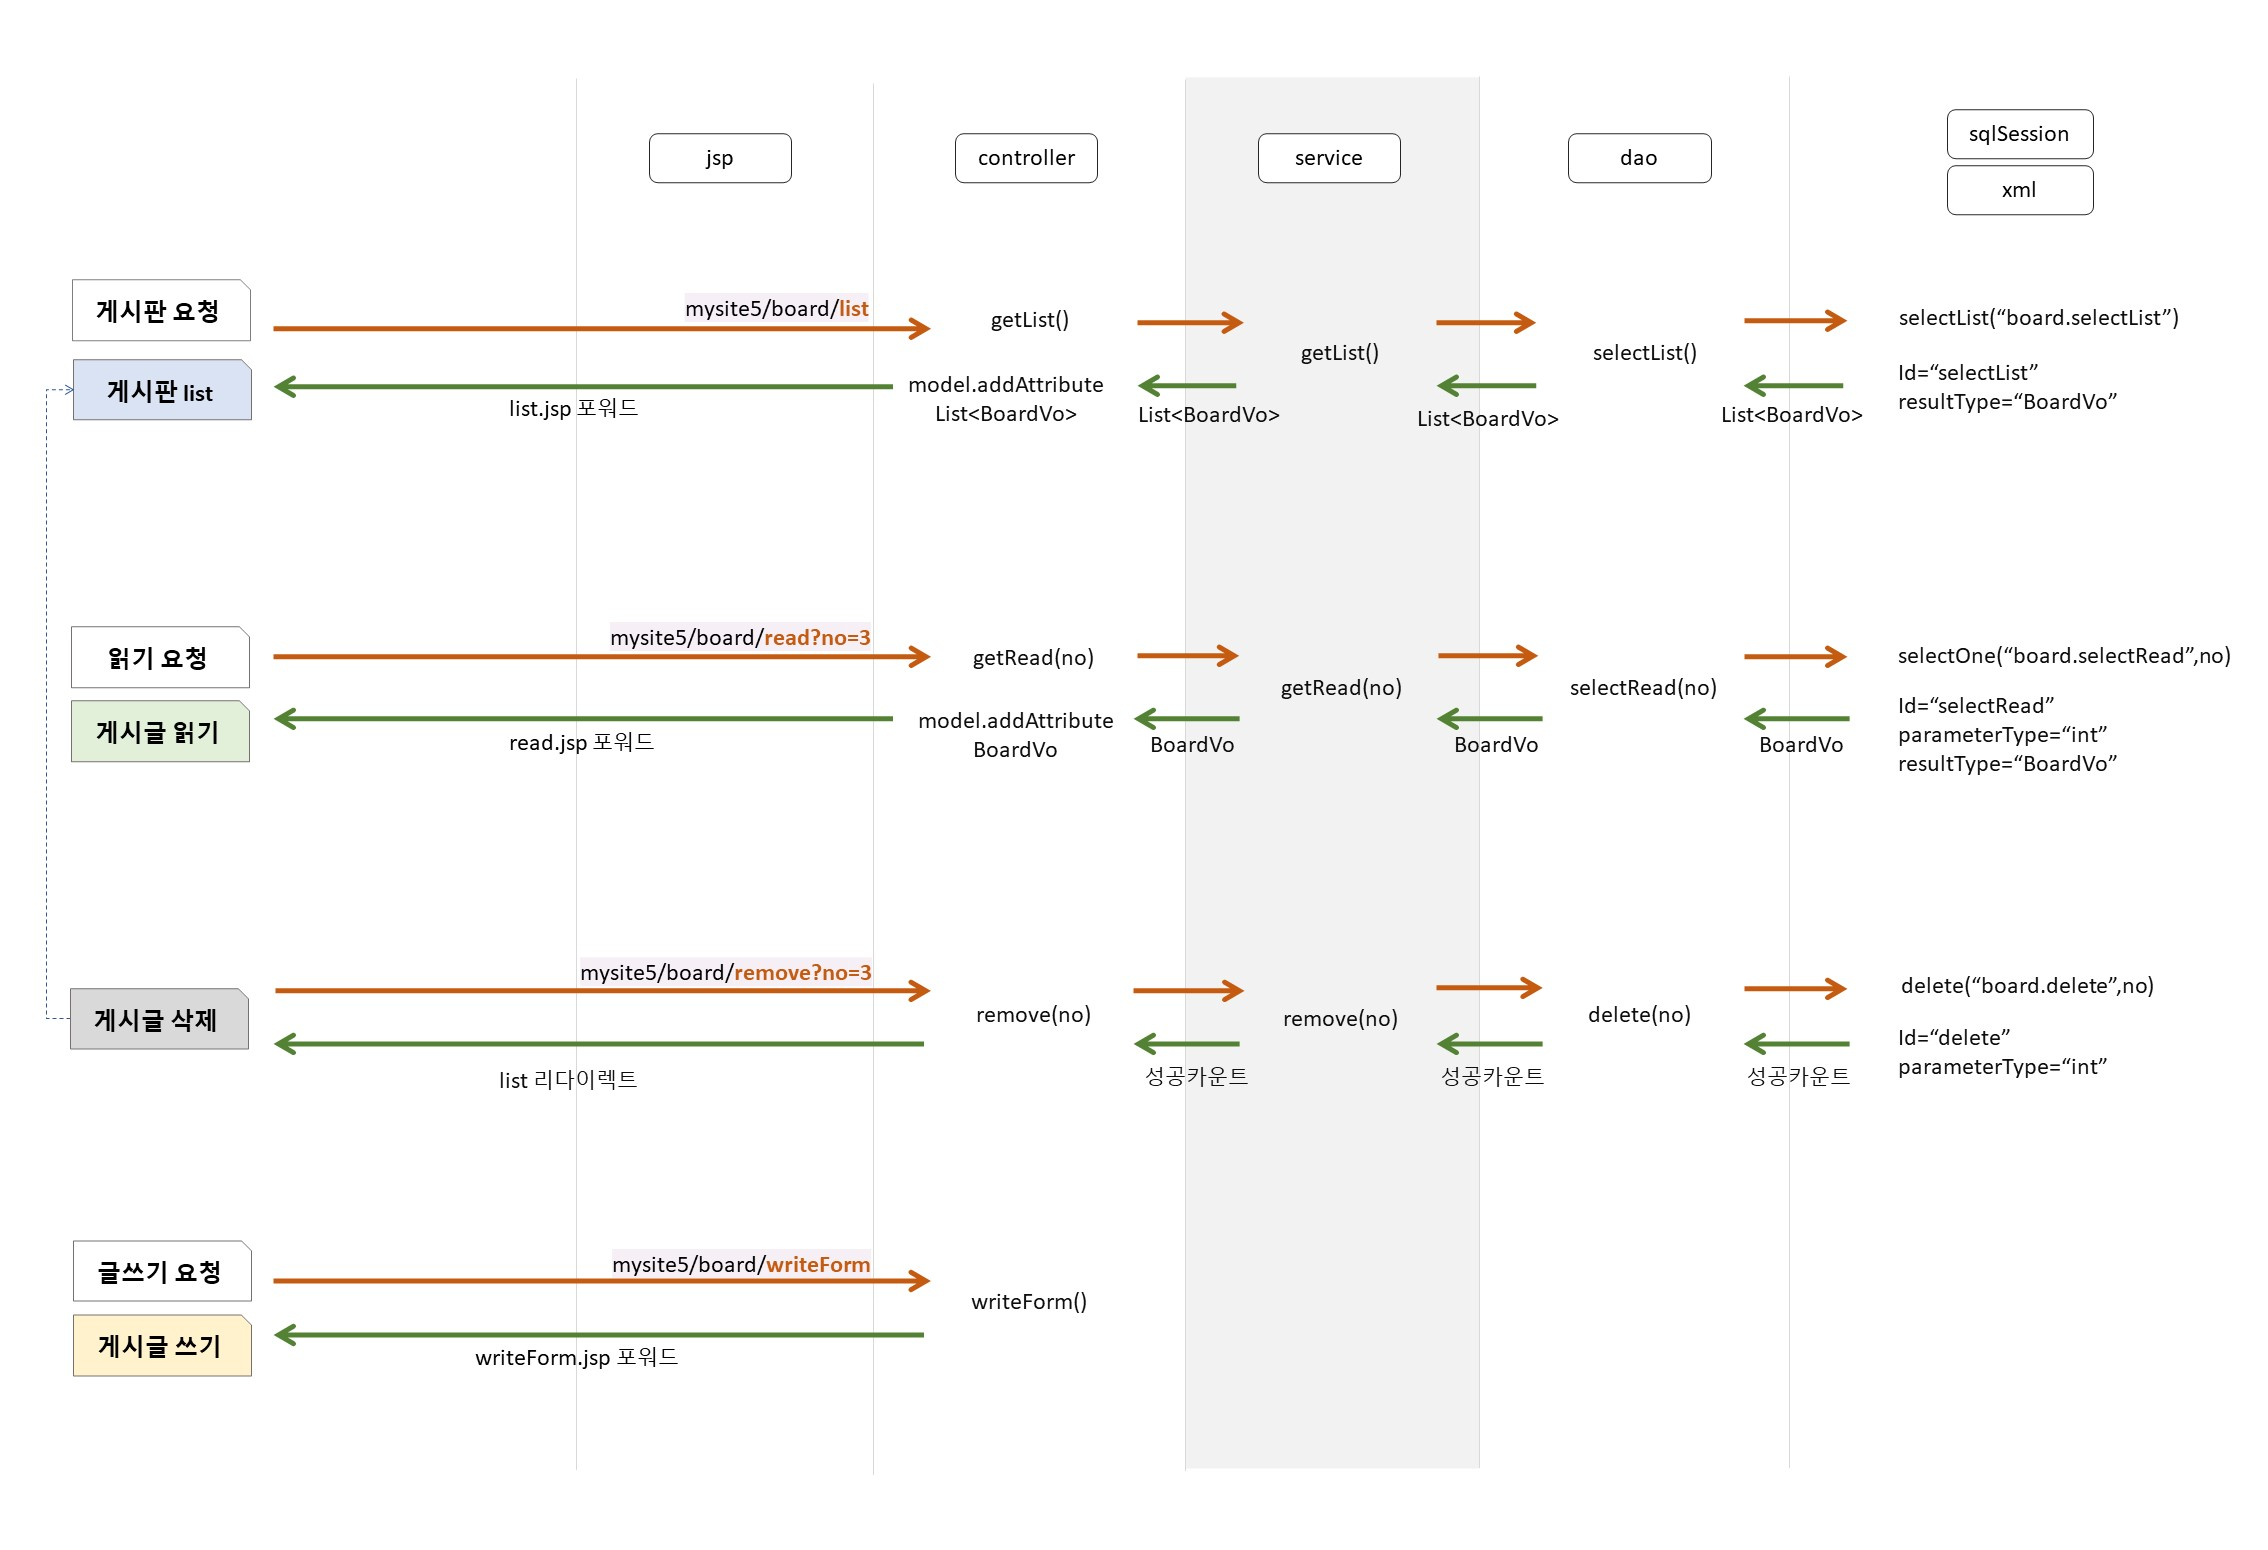
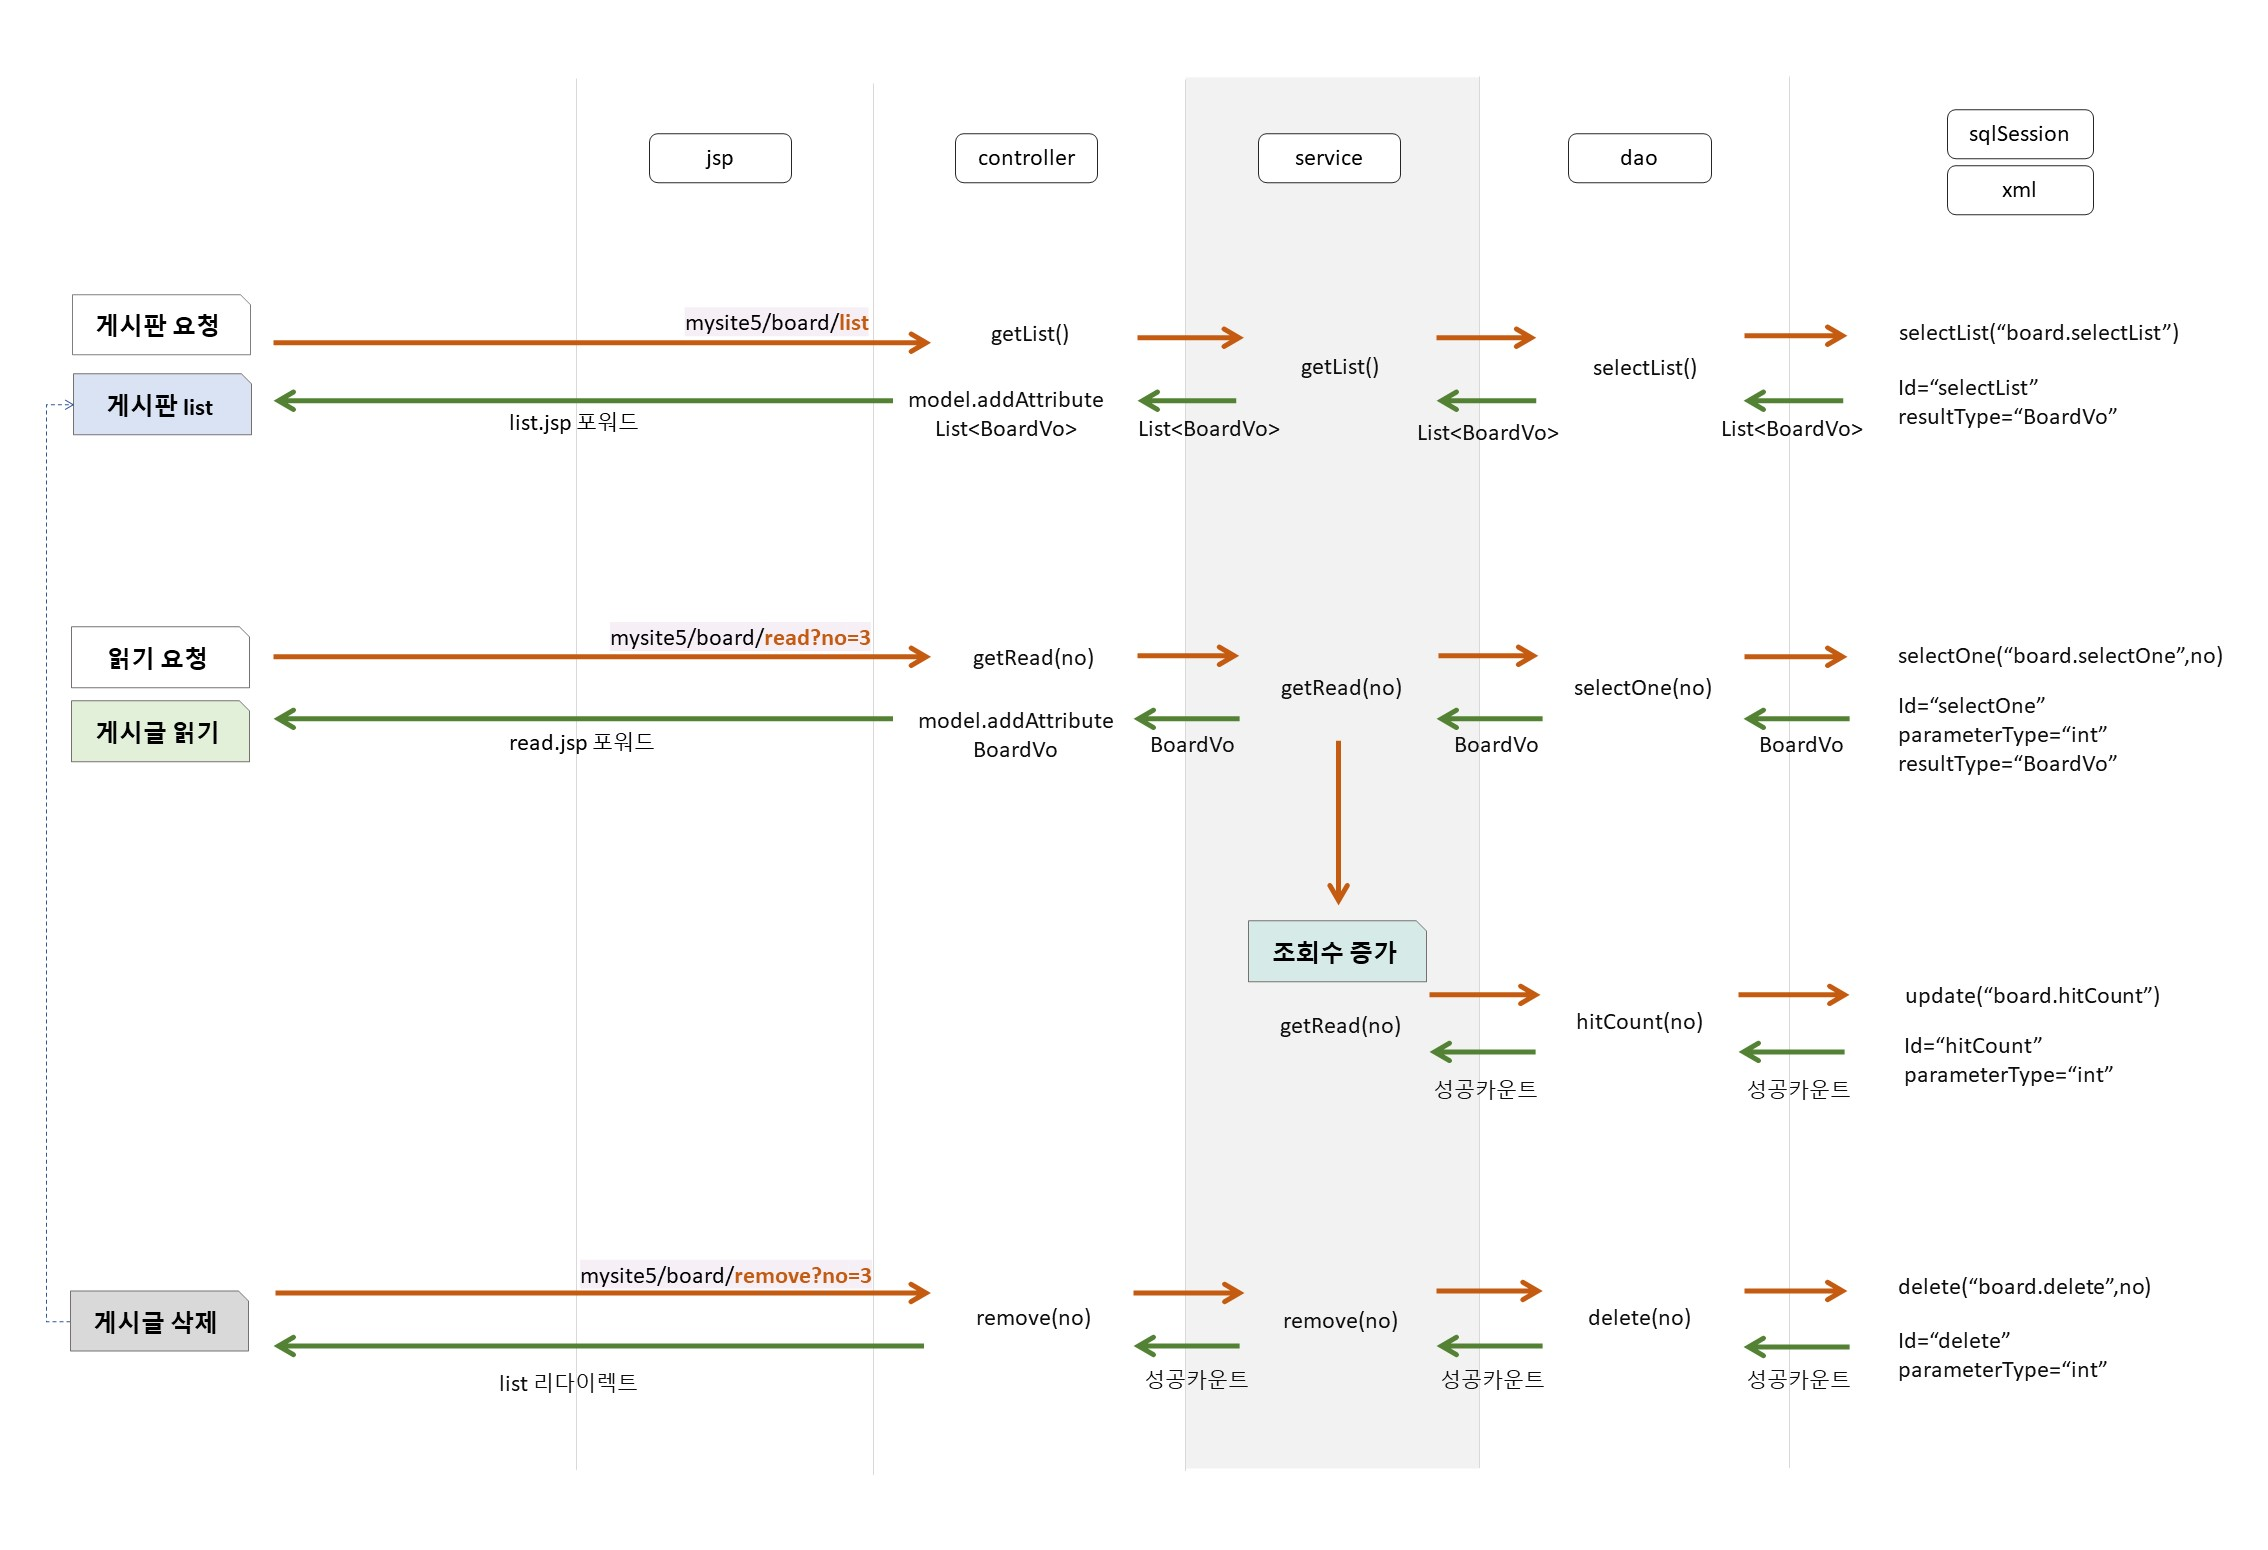
+조회수 추가

diff --git a/src/main/java/com/javaex/controller/BoardController.java b/src/main/java/com/javaex/controller/BoardController.java
@@ -9,6 +9,7 @@ import org.springframework.web.bind.annotation.ModelAttribute;
 import org.springframework.web.bind.annotation.PathVariable;
 import org.springframework.web.bind.annotation.RequestMapping;
 import org.springframework.web.bind.annotation.RequestMethod;
+import org.springframework.web.bind.annotation.RequestParam;
 
 import com.javaex.service.BoardService;
 import com.javaex.vo.BoardVo;
@@ -99,7 +100,6 @@ public class BoardController {
 		
 		return "redirect:/board/list";
 	}
-	
 	
 	
 }

diff --git a/src/main/java/com/javaex/dao/BoardDao.java b/src/main/java/com/javaex/dao/BoardDao.java
@@ -49,4 +49,11 @@ public class BoardDao {
 		return sqlSession.update("board.update", boardVo);
 	}
 	
+	//조회수 증가
+	public int hitCount(int no) {
+		System.out.println("[service] hitCount()");
+
+		return sqlSession.update("board.hitCount", no);
+	}
+	
 }

diff --git a/src/main/java/com/javaex/service/BoardService.java b/src/main/java/com/javaex/service/BoardService.java
@@ -32,6 +32,9 @@ public class BoardService {
 	public BoardVo getRead(int no) {
 		System.out.println("[service] getRead()");
 		
+		int count = boardDao.hitCount(no);
+		System.out.println(count);
+		
 		return boardDao.selectOne(no);	
 	}
 	

diff --git a/src/main/java/com/javaex/vo/BoardVo.java b/src/main/java/com/javaex/vo/BoardVo.java
@@ -12,6 +12,7 @@ public class BoardVo {
 	// users
 	private String name;
 
+
 	public BoardVo() {
 	}
 
